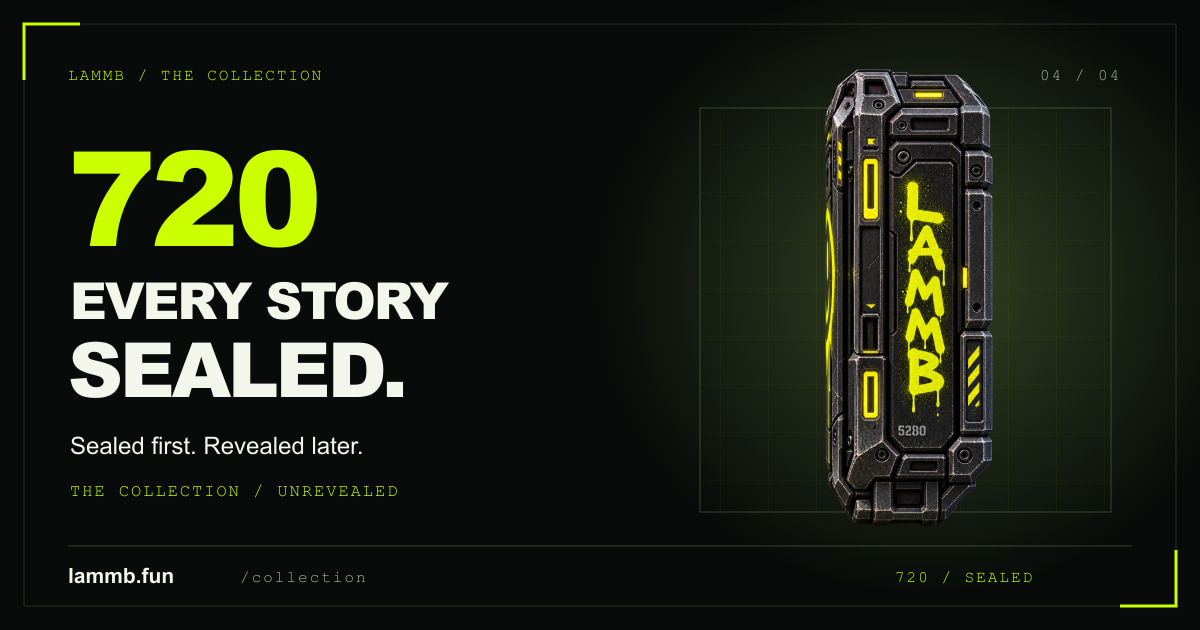
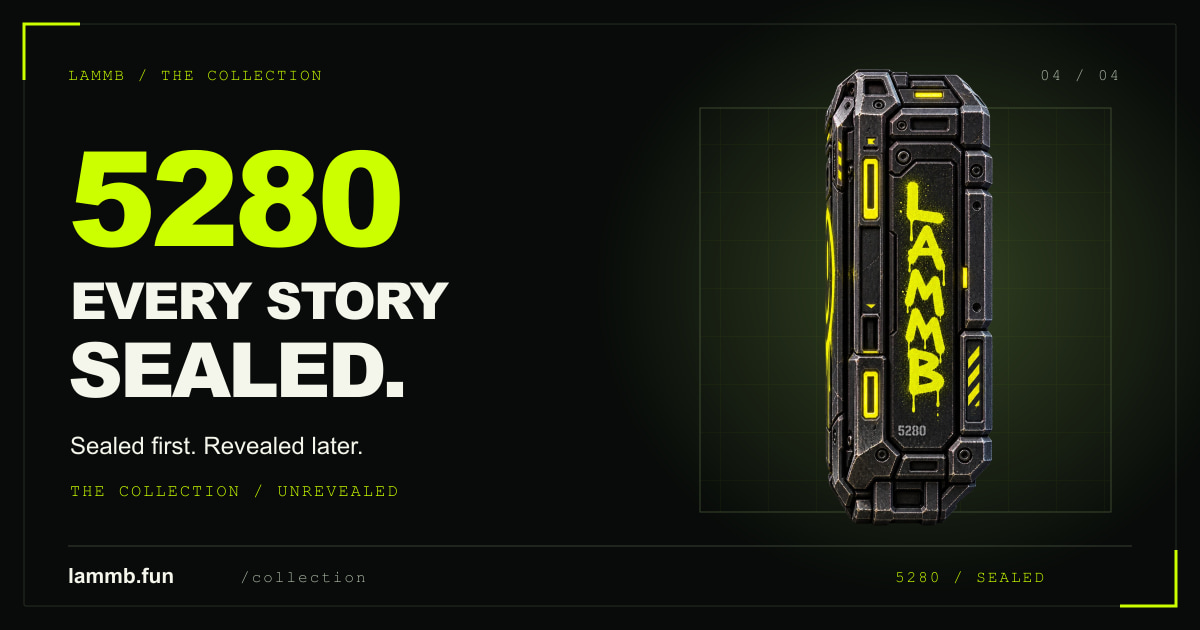
Version corrected social cards to avoid cached retired supply [skip netlify]

diff --git a/apps/web/src/config/social.ts b/apps/web/src/config/social.ts
@@ -8,7 +8,7 @@ export const socialDestinations = {
     path: '/',
     title: 'LAMMB — Higher Together',
     description: `${collection.supply} LAMMBs. One species. Infinite personalities. Explore the sealed collection and the world beyond it. Mint unavailable.`,
-    image: '/social/home-v1.jpg',
+    image: '/social/home-v2.jpg',
     alt: 'LAMMB graffiti identity beside a sealed black industrial specimen. Sealed. For now. Higher together.',
   },
   universe: {
@@ -16,7 +16,7 @@ export const socialDestinations = {
     title: 'LAMMB Labs — The Classified Universe',
     description:
       'Eleven seconds of success. An entire facility of consequences. Explore leaked research and fictional incident files inside LAMMB Labs.',
-    image: '/social/universe-v1.jpg',
+    image: '/social/universe-v2.jpg',
     alt: 'An empty classified laboratory lit in chartreuse. Classified. Badly. Leaked research / fiction.',
   },
   world: {
@@ -24,14 +24,14 @@ export const socialDestinations = {
     title: 'LAMMB World — Global NFT Atlas',
     description:
       'Explore real country geography in the global NFT atlas. Find your place in the future flock. The voluntary registry is not yet live.',
-    image: '/social/world-v1.jpg',
+    image: '/social/world-v2.jpg',
     alt: 'Real Equal Earth country outlines in chartreuse beside One world. Many mindsets. Global NFT atlas.',
   },
   collection: {
     path: '/collection',
     title: 'The Collection / LAMMB',
     description: `${collection.supply} LAMMBs. Every story sealed. Your first encounter is an unrevealed specimen; individual characters come later. Mint unavailable.`,
-    image: '/social/collection-v1.jpg',
+    image: '/social/collection-v2.jpg',
     alt: 'An unrevealed industrial specimen in an evidence frame beside 720. Every story sealed.',
   },
 } as const;

diff --git a/tests/social.test.ts b/tests/social.test.ts
@@ -57,7 +57,7 @@ describe('social route metadata', () => {
       description: 'A fictional research dossier.',
       images: [
         {
-          url: 'https://lammb.fun/social/universe-v1.jpg',
+          url: 'https://lammb.fun/social/universe-v2.jpg',
           width: 1200,
           height: 630,
         },

diff --git a/docs/launch-recovery/README.md b/docs/launch-recovery/README.md
@@ -22,6 +22,8 @@ Framework dependency advisory gate: **PASS in package audit; runtime CI required
 
 ## Verification and evidence
 
+Current social metadata points to `*-v2.jpg` for all four 720-card variants, giving crawlers a new asset URL. Original v1 JPEG bytes remain as historical assets; they are not selected by current metadata. Source artwork is unchanged.
+
 Run `node scripts/audit-genesis-supply.mjs --check` to check the deterministic inventory. It fails on an unexplained live-site retired-supply reference. The historical development engine/specification retains its original 5280 simulation envelope/config to preserve byte-pinned approvals and golden results; production requests additionally require exactly 720. These historical logical simulations cannot assign Genesis artwork, rarity or supply.
 
 Run `node scripts/verify-launch-network.mjs` for read-only live identity/discovery observations. The checked-in [2026-10-23 receipt](network-evidence.json) includes response digests and scope. Official documentation: [Robinhood network configuration](https://docs.robinhood.com/chain/connecting/), [OpenSea chain API](https://docs.opensea.io/reference/get_chains), [metadata standards](https://docs.opensea.io/docs/metadata-standards). Network identity is not deployed-contract correctness.
